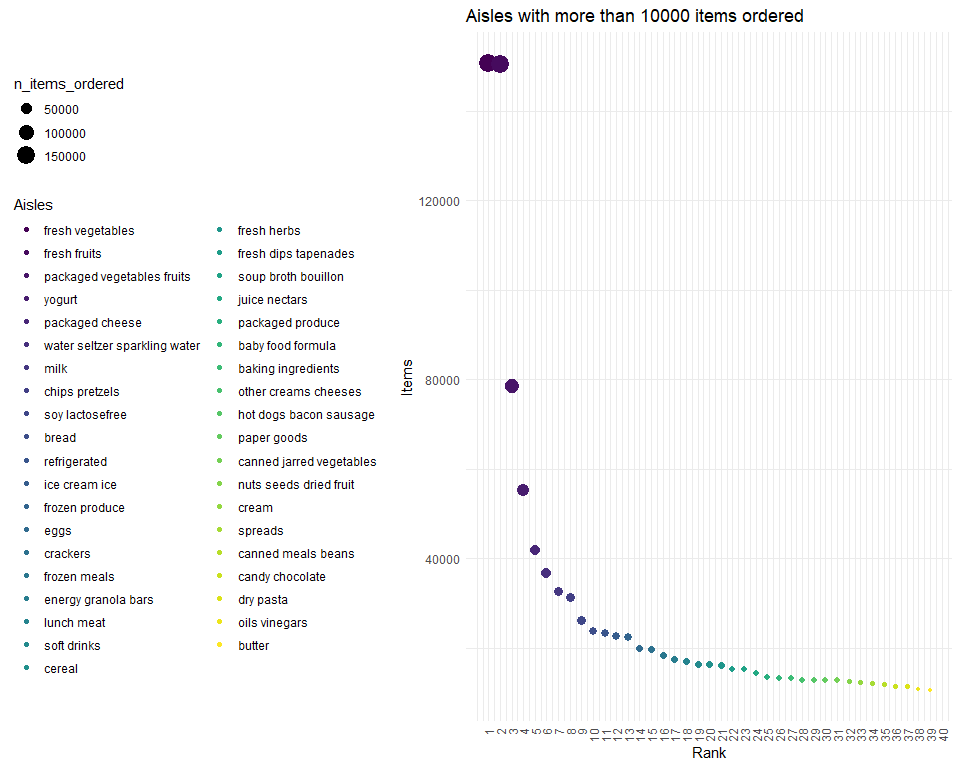
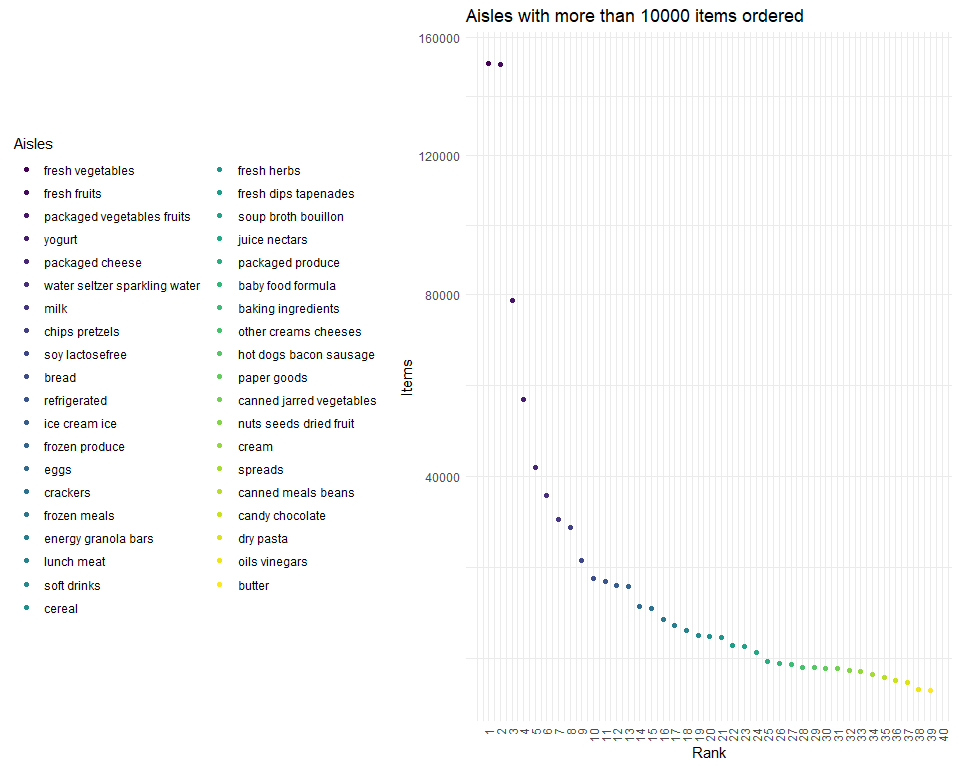
some changes

diff --git a/p8105_hw3_rw2844.md b/p8105_hw3_rw2844.md
@@ -100,18 +100,19 @@ instacart_df %>%
   mutate(rank = c(1: length(aisle) ),
          aisle = fct_reorder(aisle, rank))%>%
   ggplot(aes(x = rank, y = n_items_ordered, color = aisle)) + 
-  geom_point(aes(size = n_items_ordered)) +
+  geom_point() +
   labs(
     title = "Aisles with more than 10000 items ordered",
     x = "Rank",
     y = "Items",
     color = "Aisles"
-    )+
+    ) +
   scale_x_continuous(
     breaks = c(seq(1, 40, by = 1)),
     labels = c(seq(1, 40, by = 1))
-  )+
-  theme(legend.position = "left")+
+  ) +
+  scale_y_continuous(trans = "sqrt") +
+  theme(legend.position = "left") +
   theme(axis.text.x = element_text(angle = 90, vjust = 0.5, hjust = 1))
 ```
 
@@ -423,9 +424,12 @@ tmax_tmin =
 
 snow_fall =
   weather_df %>%
-  filter(snow > 0 & snow < 100) %>%
-  ggplot(aes(x = year, y = snow)) +
-  geom_boxplot() +
+  filter(between(snow,1,100), !is.na(snow)) %>%
+  ggplot(aes(x = snow)) +
+  geom_density_ridges(aes(y = year,
+                          group = as.factor(year)),
+                          alpha = 0.1,
+                      rel_min_height = 0.1) +
     labs(
     title = "Snowfall between 0 to 100",
     x = "Time (year)",
@@ -440,3 +444,6 @@ tmax_tmin / snow_fall
 ```
 
 <img src="p8105_hw3_rw2844_files/figure-gfm/tmax_tmin_snw-1.png" width="90%" />
+
+I think the `bin2d` is useful to show the correlation between max and
+min temperatures.
